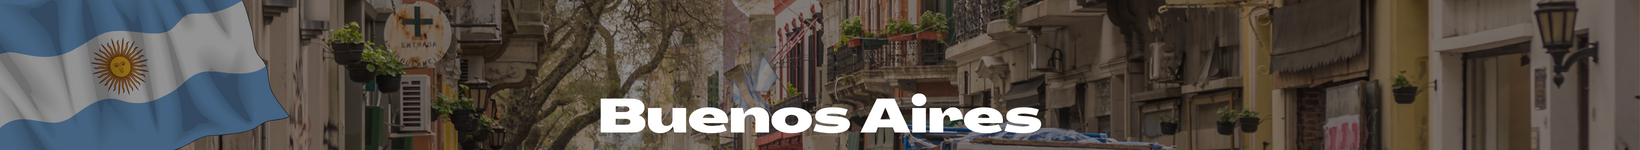
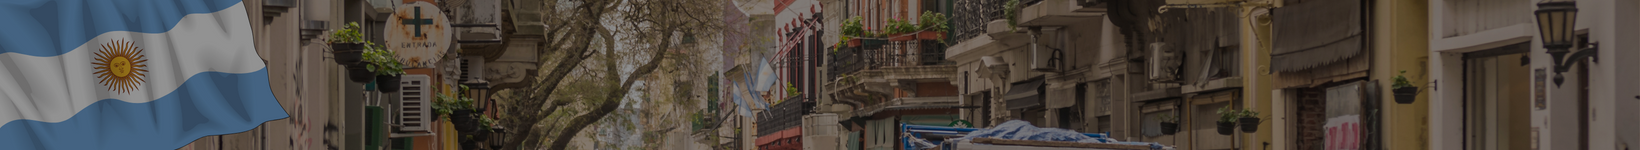
stylecity.css ready for testing on city pages

Changed region(s): [[0.3421, 0.64, 0.653, 0.9067]]

diff --git a/html/argentina.html b/html/argentina.html
@@ -1,7 +1,7 @@
 <!DOCTYPE html>
 <html lang="en">
 <head>
-    <link rel="stylesheet" href="styles/style.css">
+    <link rel="stylesheet" href="../styles/stylecity.css">
     <meta charset="UTF-8">
     <meta http-equiv="X-UA-Compatible" content="IE=edge">
     <meta name="viewport" content="width=device-width, initial-scale=1.0">
@@ -10,28 +10,52 @@
 <body>
 
 
-<header class="header_image"></header>
+<!-- <header class="header_image"></header>
 
    <section class= "argentina_page"> 
         <article class="argentina_header">
         </article>
-
-	    <article class= "locations">
+        <article class= "locations">
             <h2>Buenos Aires</h2>
             <div class= “landmarks_slide”>
                 <h3><p>landmarks</p></h3>
                 <img src="">
             </div>
-	    </article>
-
+        </article>
         <article class= "people">
             <h2>Famous Argentinians</h2>
             <div class= “people_slide”>
                 <h3><p>Our Celebrities</p></h3>
                 <img src="">
             </div>
-	    </article>
+        </article>
+   </section> -->
 
-   </section>
+
+
+   <section class="pageHeader">
+    <header>
+      <a href="../index.html">
+        <img src="../images/logoDiscoManchild.png" alt="">
+      </a>
+      <section class="icon">
+        <img src="../images/flagBuenosAiresArgentina.png" alt="">
+      </section>
+    </header>
+  </section>
+  <section class="banner">
+    <img src="../images/bannerBuenosAires.png" alt="">
+  </section>
+  <section class="mainContainer"> 
+    <article class="subContainer">
+      <article class="alandmarkobjects">
+        Mynameis
+      </article>
+      <article class="acitizenobjects">
+        David
+      </article>
+    </article>
+  </section>
+  <script type="module" src="../scripts/main.js"></script>
 </body>
 </html>

diff --git a/index.html b/index.html
@@ -8,21 +8,39 @@
     <title>Manchild Travel Services</title>
 </head>
 <body>
+    <section class="pageHeader">
+        <header>
+          <img src="images/logoDiscoManchild.png" alt="">
+        </header>
+    </section>
+    <section class="allCountries"> 
+        <article class="countries_left">
+            <div class= “argentina”>
+                <h2>Argentina</h2>
+                <a href="html/argentina.html">
+                    <img src="images/argentina.png" alt="Argentina_Photo">
+                </a>
             </div>
             <div class= “japan”>
-            <h2>Japan</h2>
-            <img src="images/japan.png" alt="japan_photo">
+                <h2>Japan</h2>
+                <a href="html/japan.html">
+                    <img src="images/japan.png" alt="Argentina_Photo">
+                </a>
             </div>
         </article>
         <article class="countries_right">
-        <div class= “bolivia”>
-            <h2>Bolivia</h2>
-            <img src="images/bolivia.png" alt="bolivia_photo">
-        </div>
-        <div class= “scotland”>
-            <h2>Scotland</h2>
-            <img src="images/scotland.png" alt="scotland_photo">
-        </div>
+            <div class= “bolivia”>
+                <h2>Bolivia</h2>
+                <a href="html/bolivia.html">
+                    <img src="images/bolivia.png" alt="Argentina_Photo">
+                </a>
+            </div>
+            <div class= “scotland”>
+                <h2>Scotland</h2>
+                <a href="html/scotland.html">
+                    <img src="images/scotland.png" alt="Argentina_Photo">
+                </a>
+            </div>
         </article>
     </section>
 </body>

diff --git a/styles/stylecity.css b/styles/stylecity.css
@@ -1,0 +1,100 @@
+* {
+  margin: 0px;
+  padding: 0px;
+  width: 100vw;
+}
+
+body {
+  display: flex;
+  justify-content: center;
+  flex-direction: center;
+  background-color: rgb(210, 210, 210);
+}
+
+.pageHeader {
+  display: flex;
+  justify-content: center;
+  position: fixed;
+  z-index: 1;
+  top: 0px;
+  left:0px;
+  right: 0px;
+  height: 75px;
+  max-height: 75px;
+  text-align: center;
+  padding-top: 10px;
+  background-color: red;
+}
+
+header {
+  display: flex;
+  justify-content: center;
+}
+
+header > img {
+  width: 150px;
+}
+
+header > a {
+  display: flex;
+  height: 150px;
+  max-width: 150px;
+  position: absolute;
+}
+
+.icon {
+  display: flex;
+  justify-content: center;
+  align-items: center;
+  position: fixed;
+  z-index: 2;
+  left: 30px;  
+  width: fit-content;
+  height: 75px;
+  padding-top: 38px;
+}
+
+.icon > img {
+  width: 30vw;
+  max-width: 520px;
+}
+
+.banner {
+  position: absolute;
+  z-index: 0;
+  padding-top: 75px;
+  min-height: 150px;
+}
+
+.mainContainer {
+  display: flex;
+  justify-content: center;
+  align-items: center;
+  width: 80vw;
+  height: fit-content;
+  margin-top: 165px;
+  padding: 25px;
+  padding-top: 250px;
+  /* background-color: yellow; */
+}
+
+.subContainer {
+  display: flex;
+  justify-content: space-around;
+  padding 30vw;
+  background-color:blue;
+}
+
+.locations {
+  display: flex;
+  justify-content: center;
+  width: 40vw;
+  background-color: rgb(255, 0, 255);
+}
+
+.people {
+  display: flex;
+  justify-content: center;
+  width: 40vw;
+  background-color: rgba(0, 255, 255, 0.506);
+}

diff --git a/html/scotland.html b/html/scotland.html
@@ -1,7 +1,7 @@
 <!DOCTYPE html>
 <html lang="en">
 <head>
-    <link rel="stylesheet" href="styles/style.css">
+    <link rel="stylesheet" href="../styles/stylecity.css">
     <meta charset="UTF-8">
     <meta http-equiv="X-UA-Compatible" content="IE=edge">
     <meta name="viewport" content="width=device-width, initial-scale=1.0">
@@ -10,7 +10,7 @@
 <body>
 
 
-<header class="header_image"></header>
+<!-- <header class="header_image"></header>
 
    <section class= "scotland_page"> 
         <article class="scotland_header">
@@ -32,6 +32,31 @@
             </div>
 	    </article>
 
-   </section>
+   </section> -->
+
+   <section class="pageHeader">
+    <header>
+      <a href="../index.html">
+        <img src="../images/logoDiscoManchild.png" alt="">
+      </a>
+      <section class="icon">
+        <img src="../images/flagGlasgowScotland.png " alt="">
+      </section>
+    </header>
+  </section>
+  <section class="banner">
+    <img src="../images/bannerGlasgow.png" alt="">
+  </section>
+  <section class="mainContainer"> 
+    <article class="subContainer">
+      <article class="slandmarkobjects">
+        Mynameis
+      </article>
+      <article class="scitizenobjects">
+        David
+      </article>
+    </article>
+  </section>
+  <script type="module" src="../scripts/main.js"></script>
 </body>
 </html>

diff --git a/html/bolivia.html b/html/bolivia.html
@@ -1,7 +1,7 @@
 <!DOCTYPE html>
 <html lang="en">
 <head>
-    <link rel="stylesheet" href="styles/style.css">
+    <link rel="stylesheet" href="../styles/stylecity.css">
     <meta charset="UTF-8">
     <meta http-equiv="X-UA-Compatible" content="IE=edge">
     <meta name="viewport" content="width=device-width, initial-scale=1.0">
@@ -10,7 +10,7 @@
 <body>
 
 
-<header class="header_image"></header>
+<!-- <header class="header_image"></header>
 
    <section class= "bolivia_page"> 
         <article class="bolivia_header">
@@ -32,6 +32,31 @@
             </div>
 	    </article>
 
-   </section>
+   </section> -->
+
+   <section class="pageHeader">
+    <header>
+      <a href="../index.html">
+        <img src="../images/logoDiscoManchild.png" alt="">
+      </a>
+      <section class="icon">
+        <img src="../images/flagLaPazBolivia.png" alt="">
+      </section>
+    </header>
+  </section>
+  <section class="banner">
+    <img src="../images/bannerLaPaz.png" alt="">
+  </section>
+  <section class="mainContainer"> 
+    <article class="subContainer">
+      <article class="blandmarkobjects">
+        Mynameis
+      </article>
+      <article class="bcitizenobjects">
+        David
+      </article>
+    </article>
+  </section>
+  <script type="module" src="../scripts/main.js"></script>
 </body>
 </html>

diff --git a/html/japan.html b/html/japan.html
@@ -1,7 +1,7 @@
 <!DOCTYPE html>
 <html lang="en">
 <head>
-    <link rel="stylesheet" href="styles/style.css">
+    <link rel="stylesheet" href="../styles/stylecity.css">
     <meta charset="UTF-8">
     <meta http-equiv="X-UA-Compatible" content="IE=edge">
     <meta name="viewport" content="width=device-width, initial-scale=1.0">
@@ -10,7 +10,7 @@
 <body>
 
 
-<header class="header_image"></header>
+<!-- <header class="header_image"></header>
 
    <section class= "japan_page"> 
         <article class="japan_header">
@@ -32,6 +32,32 @@
             </div>
 	    </article>
 
-   </section>
+   </section> -->
+
+
+   <section class="pageHeader">
+    <header>
+      <a href="../index.html">
+        <img src="../images/logoDiscoManchild.png" alt="">
+      </a>
+      <section class="icon">
+        <img src="../images/flagTokyoJapan.png" alt="">
+      </section>
+    </header>
+  </section>
+  <section class="banner">
+    <img src="../images/bannerTokyo.png" alt="">
+  </section>
+  <section class="mainContainer"> 
+    <article class="subContainer">
+      <article class="jlandmarkobjects">
+        Mynameis
+      </article>
+      <article class="jcitizenobjects">
+        David
+      </article>
+    </article>
+  </section>
+  <script type="module" src="../scripts/main.js"></script>
 </body>
 </html>
